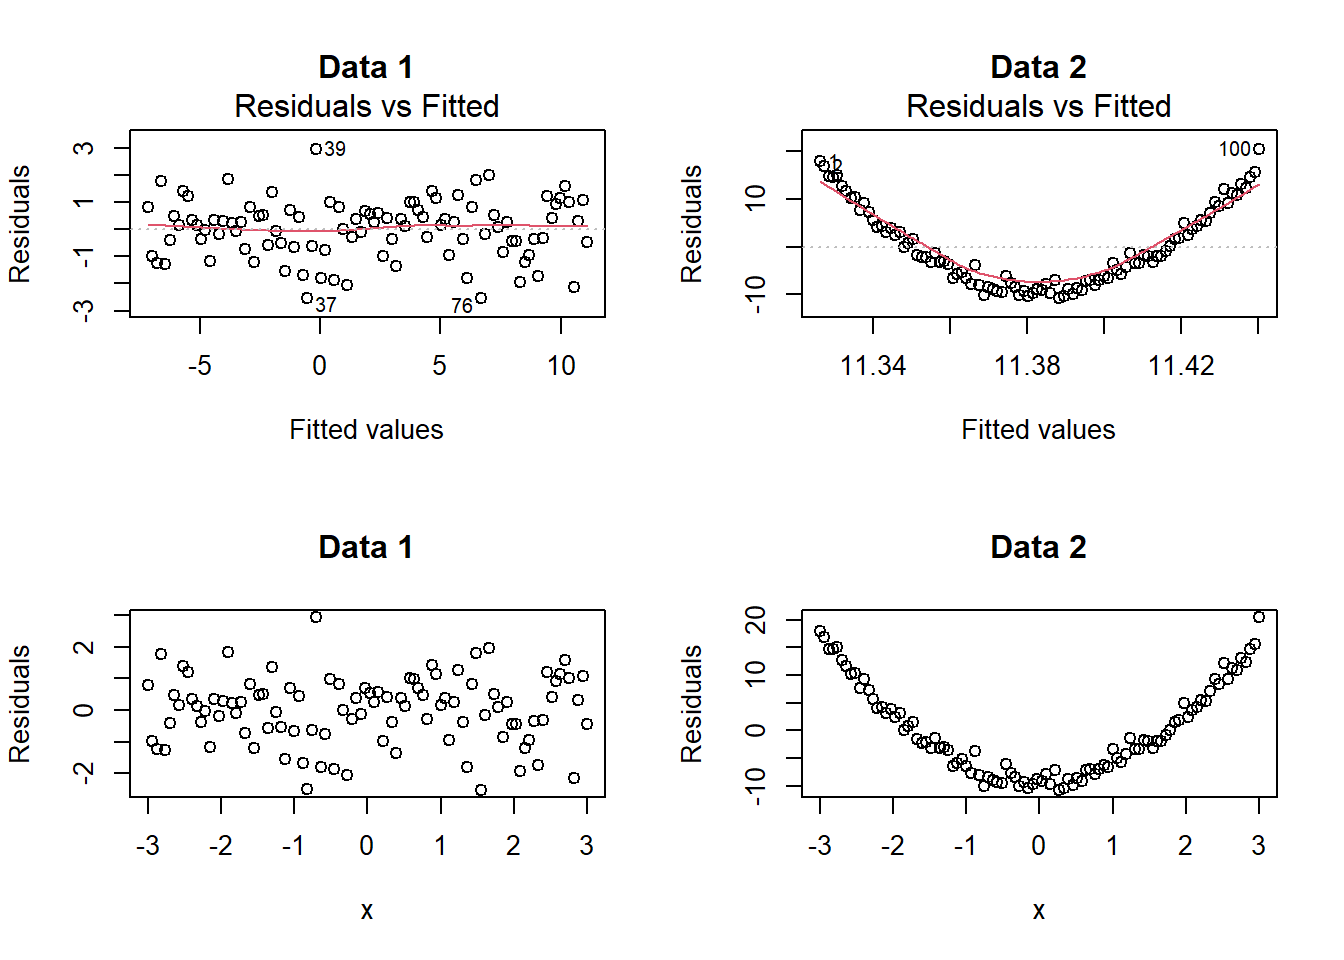
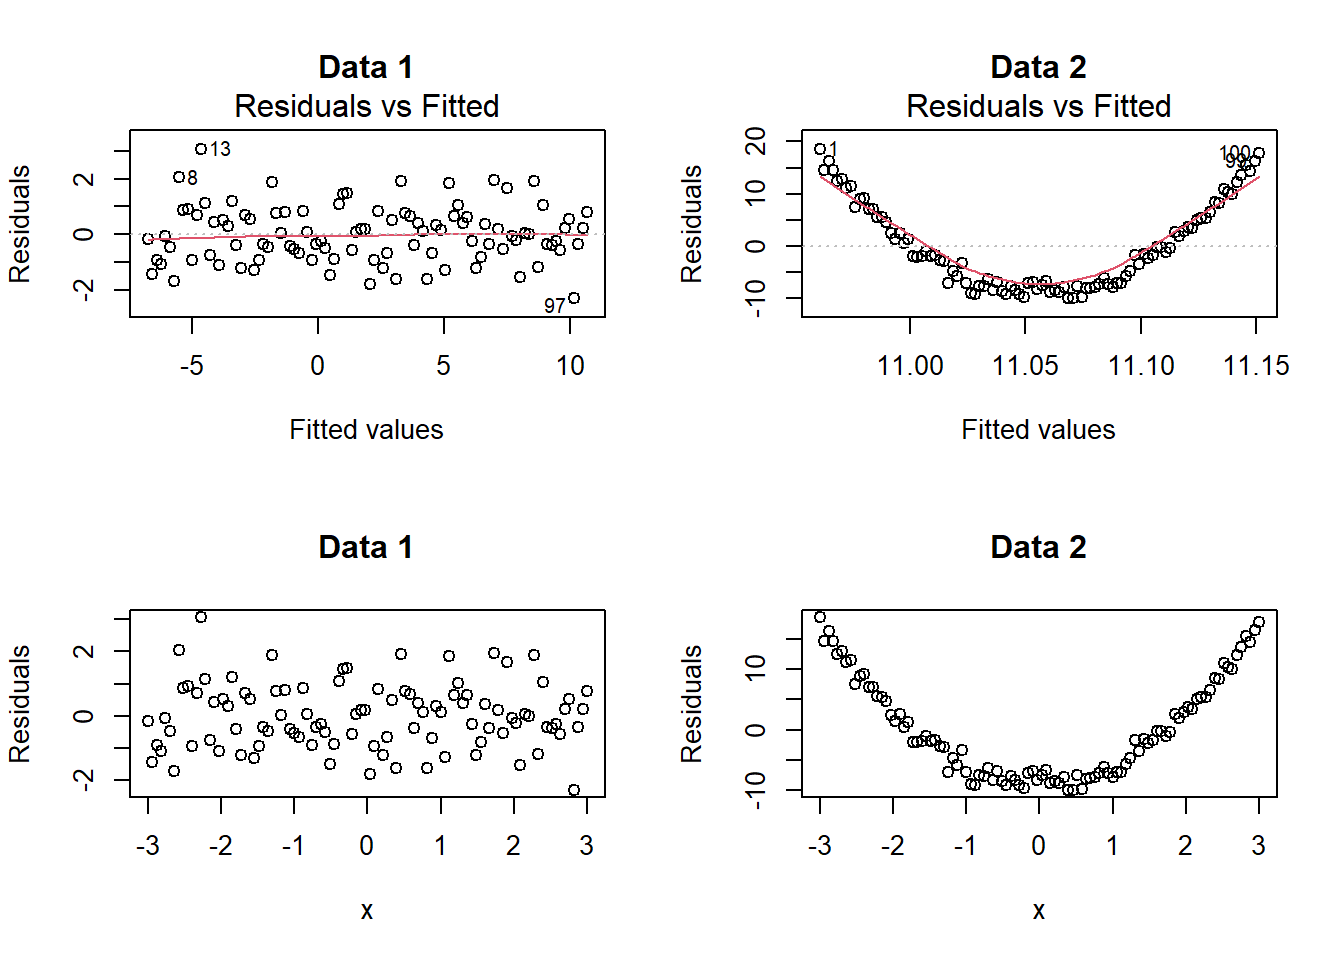
Built site for gh-pages

diff --git a/lectures/04-lecture.html b/lectures/04-lecture.html
@@ -489,7 +489,7 @@ E[SSE] &amp;= E\left[\sum_{i=1}^n (y_i - \hat{y}_i)^2\right] = E\left[\sum_{i=1}
 <ul>
 <li>It turns out that</li>
 </ul>
-<p><span class="math display">\[SSR/\sigma^2} \overset{\textcolor{red}{H_0: \beta_1=0}}\sim \chi^2_1\]</span></p>
+<p><span class="math display">\[SSR/\sigma^2 \overset{\textcolor{red}{H_0: \beta_1=0}}\sim \chi^2_1\]</span></p>
 <ul>
 <li><p>Also, we have shown that <span class="math display">\[E[MSR] = \sigma^2 + \beta_1^2 S_{XX}, E[MSE]=\sigma^2\]</span></p></li>
 <li><p>Both suggest that we should reject <span class="math inline">\(H_0: \beta_1 = 0\)</span> when the ratio <span class="math inline">\(F = MSR/MSE\)</span> is too large.</p></li>
